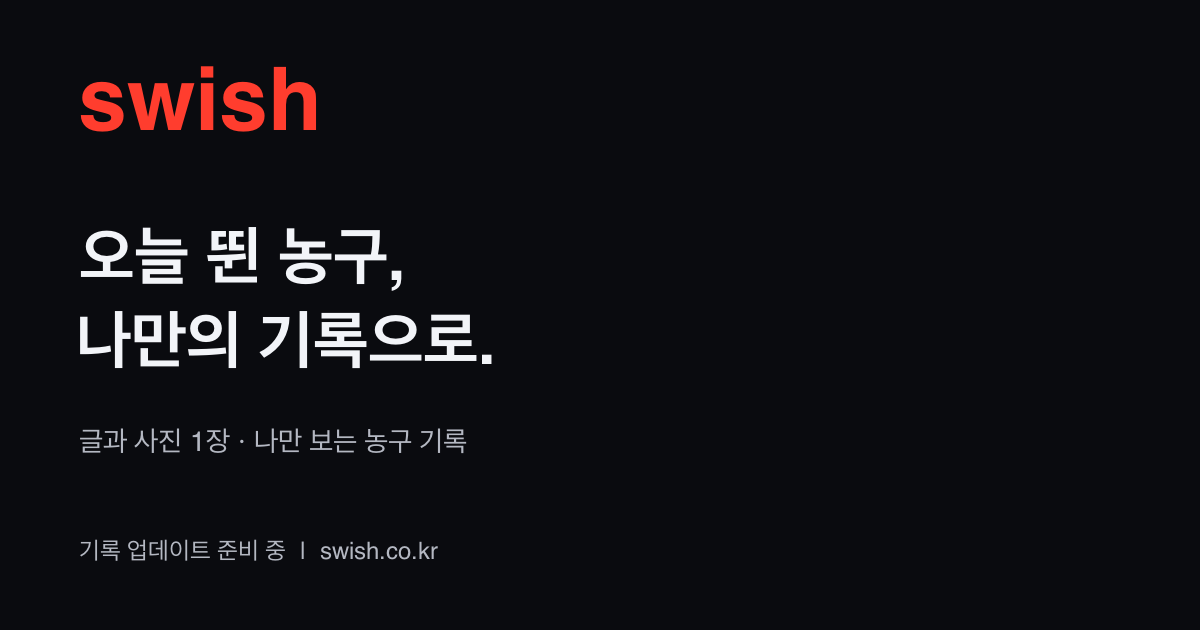
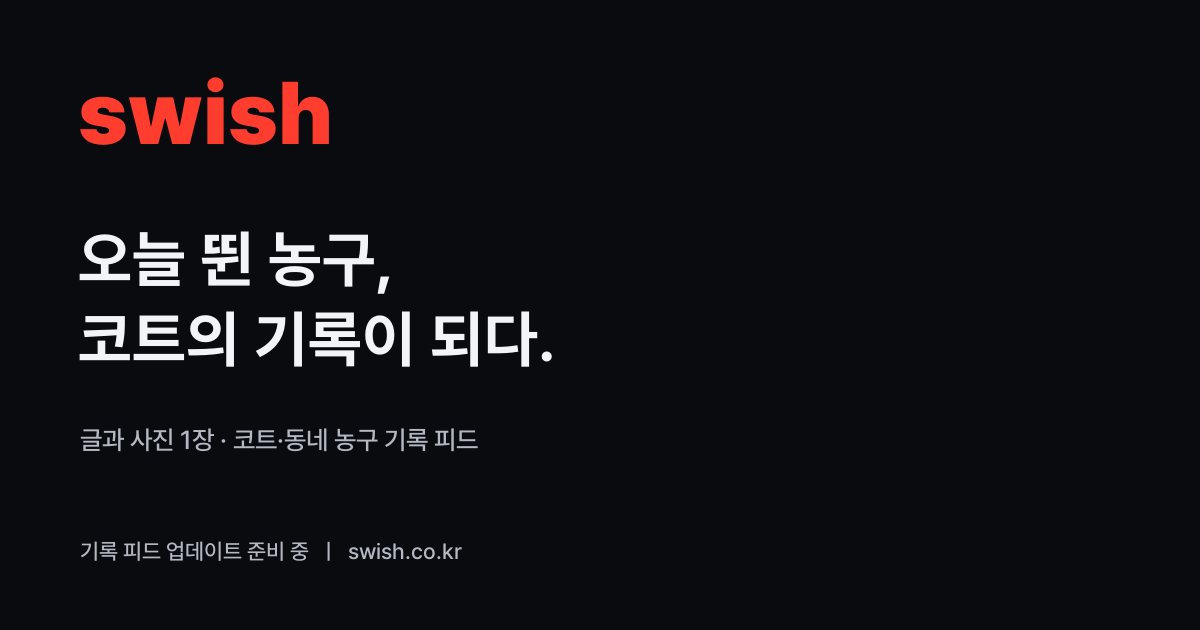
records feed: 오늘 뛴 농구, 코트의 기록이 되다 (swish #341)

diff --git a/index.html b/index.html
@@ -3,10 +3,10 @@
 <head>
 <meta charset="utf-8">
 <meta name="viewport" content="width=device-width, initial-scale=1">
-<title>swish — 나만의 농구 기록, 코트와 게임</title>
-<meta name="description" content="오늘 뛴 농구를 나만의 기록으로. 글과 사진 1장으로 남기는 개인 기록 업데이트를 준비하고 있어요. 코트맵·픽업게임·전광판을 만나는 농구 앱 swish(스위시).">
-<meta property="og:title" content="swish — 나만의 농구 기록, 코트와 게임">
-<meta property="og:description" content="글과 사진 1장으로 남기는 나만의 농구 기록, 업데이트 준비 중. 코트맵부터 픽업게임·전광판까지.">
+<title>swish — 코트에서 뛴 농구를 기록하고 나누는 앱</title>
+<meta name="description" content="오늘 뛴 농구를 글과 사진 1장으로 기록하고, 같은 코트·우리 동네 농구인들과 나누는 기록 피드 업데이트를 준비하고 있어요. 코트맵·픽업게임·전광판을 만나는 농구 앱 swish(스위시).">
+<meta property="og:title" content="swish — 오늘 뛴 농구, 코트의 기록이 되다">
+<meta property="og:description" content="글과 사진 1장으로 남기는 코트·동네 농구 기록 피드, 업데이트 준비 중. 코트맵부터 픽업게임·전광판까지.">
 <meta property="og:image" content="https://swish.co.kr/assets/records-og.png">
 <meta property="og:type" content="website">
 <meta name="theme-color" content="#0A0B0F">
@@ -298,14 +298,16 @@
   .tag.gold{color:var(--gold);background:rgba(255,178,61,.12)}
 
   /* 출시 예정 개인 기록 예시 */
-  .record-stats{display:flex;gap:8px;margin:8px 14px 12px;padding:12px 6px;background:var(--surface);border:1px solid var(--line);border-radius:14px}
-  .record-stats>div{flex:1;text-align:center}
-  .record-stats b{display:block;font-size:22px;line-height:1.2}
-  .record-stats span{font-size:9px;color:var(--dim)}
-  .record-card{background:var(--surface);border:1px solid var(--line);border-radius:14px;padding:12px;font-size:12px}
-  .record-date{font-size:10px;color:var(--dim);margin-bottom:7px}
-  .record-photo{display:block;color:var(--dim);font-size:10px;margin-top:8px}
   .record-note{padding-top:8px;font-size:9px}
+  .feed-card{background:var(--surface);border:1px solid var(--line);border-radius:14px;overflow:hidden;font-size:12px}
+  .feed-card>p{padding:8px 12px 0}
+  .fc-head{display:flex;align-items:center;gap:8px;padding:10px 12px 8px}
+  .fc-head .ava{width:22px;height:22px;border-radius:50%;background:var(--line);display:grid;place-items:center;font-size:10px;font-weight:800}
+  .fc-head b{display:block;font-size:11px}
+  .fc-head span{font-size:9px;color:var(--dim)}
+  .fc-photo{aspect-ratio:12/5;background:#2A1512;display:grid;place-items:center;color:var(--scarlet)}
+  .fc-photo svg{width:30px;height:30px}
+  .fc-like{display:block;padding:6px 12px 10px;font-size:10px;color:var(--scarlet);font-weight:800}
   #records li small{color:var(--dim)}
   .legacy-anchor{position:absolute;top:0}
   section[id]{scroll-margin-top:64px;position:relative}
@@ -497,8 +499,8 @@
   <div class="wrap hero-in">
     <div>
       <p class="kicker" data-reveal>농구 앱 swish</p>
-      <h1><span class="line">오늘 뛴 농구,</span><span class="line g">나만의 기록으로.</span></h1>
-      <p class="sub" data-reveal>슛 감각이 좋았던 날도, 가볍게 몸을 푼 날도.<br><b>글이나 사진 한 장</b>으로 돌아보는 나만의 농구 기록을 준비하고 있어요.</p>
+      <h1><span class="line">오늘 뛴 농구,</span><span class="line g">코트의 기록이 되다.</span></h1>
+      <p class="sub" data-reveal>슛 감각이 좋았던 날도, 가볍게 몸을 푼 날도.<br><b>글이나 사진 한 장</b>으로 남기고, 같은 코트·우리 동네 농구인들의 기록을 구경하는 기록 피드를 준비하고 있어요.</p>
       <div class="cta-row" data-reveal>
         <a class="btn btn-primary" href="https://apps.apple.com/kr/app/id6767571900">App Store에서 받기</a>
         <a class="btn btn-ghost" href="#records">기록 미리 보기</a>
@@ -510,20 +512,17 @@
       <div class="hero-glow" aria-hidden="true"></div>
       <div class="float">
       <!-- 출시 예정 기능의 정적 예시 -->
-      <div class="phone" role="img" aria-label="업데이트 예정인 개인 농구 기록 예시: 글, 선택 코트, 기록한 날 수와 사진 유무">
+      <div class="phone" role="img" aria-label="업데이트 예정인 농구 기록 피드 예시: 코트와 날짜, 사진, 글, 좋아요가 있는 기록 카드">
         <div class="screen"><div class="island"></div>
           <div class="app-head"><span class="mark">swish</span><span class="spacer"></span><span class="region">업데이트 예정</span></div>
           <div class="screen-title"><span class="t">농구 기록</span><span class="mini-cta">기록하기</span></div>
-          <p class="screen-sub">나만 볼 수 있는 농구 기록이에요</p>
-          <div class="record-stats"><div><b>3</b><span>기록</span></div><div><b>2</b><span>기록한 날</span></div><div><b>1</b><span>선택한 코트</span></div></div>
-          <p class="chip-label">코트</p>
-          <div class="chip-row"><span class="chip on">전체</span><span class="chip">반포한강공원</span></div>
+          <p class="screen-sub">코트와 동네에서 올라온 농구 기록이에요</p>
+          <div class="chip-row"><span class="chip on">전체</span><span class="chip">팔로잉</span><span class="chip">내 동네</span></div>
           <div class="glist">
-            <div class="record-card"><p class="record-date">9월 22일 · 반포한강공원</p><p>오늘은 자유투 리듬을 찾았어요.<br>다음에도 천천히, 같은 자세로.</p><span class="record-photo">사진 1장 · 상세에서 보기</span></div>
-            <div class="record-card"><p class="record-date">9월 22일 · 코트 선택 안 함</p><p>마무리는 가벼운 드리블 연습.</p></div>
-            <div class="record-card"><p class="record-date">9월 20일 · 반포한강공원</p><p>오랜만에 뛰어서 더 즐거웠던 날.</p></div>
+            <div class="feed-card"><div class="fc-head"><span class="ava">민</span><div><b>민준</b><span>반포한강공원 · 9월 22일</span></div></div><div class="fc-photo" aria-hidden="true"><svg><use href="#i-ball"/></svg></div><p>자유투 리듬을 찾은 날.</p><span class="fc-like">♥ 12</span></div>
+            <div class="feed-card"><div class="fc-head"><span class="ava">서</span><div><b>서연</b><span>서울 서초구 · 9월 21일</span></div></div><p>퇴근하고 3대3 두 게임, 마지막 레이업 성공.</p><span class="fc-like">♥ 5</span></div>
           </div>
-          <p class="screen-sub record-note">[DEMO] 기록 예시 · 직접 입력한 활동일</p>
+          <p class="screen-sub record-note">[DEMO] 기록 피드 예시 · 직접 남긴 기록</p>
           <div class="tabbar">
             <span class="tab"><svg><use href="#i-home"/></svg>홈</span><span class="tab on"><svg><use href="#i-record"/></svg>기록</span><span class="tab"><svg><use href="#i-ball"/></svg>게임</span><span class="tab"><svg><use href="#i-map"/></svg>코트맵</span><span class="tab"><svg><use href="#i-person"/></svg>마이</span>
           </div></div>
@@ -548,14 +547,14 @@
     <span class="ti"><b>NEW</b>유료 게임 실명 인증 — 실명은 호스트에게만 보여요</span>
     <span class="ti"><b>NEW</b>채팅 속 연락처·계좌번호는 자동으로 가려요</span>
     <span class="ti"><b>NEW</b>유료 게임 신청 전 환불 규정을 표로 확인</span>
-    <span class="ti"><b>SOON</b>나만 보는 농구 기록 — 업데이트 준비 중</span>
+    <span class="ti"><b>SOON</b>코트·동네 농구 기록 피드 — 업데이트 준비 중</span>
     <span class="ti"><b>MAP</b>전국 농구 코트 1,220곳 — 제보로 매일 자라는 코트맵</span>
     <span class="ti dup" aria-hidden="true"><b>NEW</b>호스트를 팔로우하면 새 게임 알림<span class="v">0.1.14</span></span>
     <span class="ti dup" aria-hidden="true"><b>NEW</b>호스트 프로필에서 예정 게임·팔로워·리뷰를 한눈에</span>
     <span class="ti dup" aria-hidden="true"><b>NEW</b>유료 게임 실명 인증 — 실명은 호스트에게만 보여요</span>
     <span class="ti dup" aria-hidden="true"><b>NEW</b>채팅 속 연락처·계좌번호는 자동으로 가려요</span>
     <span class="ti dup" aria-hidden="true"><b>NEW</b>유료 게임 신청 전 환불 규정을 표로 확인</span>
-    <span class="ti dup" aria-hidden="true"><b>SOON</b>나만 보는 농구 기록 — 업데이트 준비 중</span>
+    <span class="ti dup" aria-hidden="true"><b>SOON</b>코트·동네 농구 기록 피드 — 업데이트 준비 중</span>
     <span class="ti dup" aria-hidden="true"><b>MAP</b>전국 농구 코트 1,220곳 — 제보로 매일 자라는 코트맵</span>
   </div></div>
 </div>
@@ -654,16 +653,13 @@
 <div class="screen" data-screen="2"><div class="island"></div>
           <div class="app-head"><span class="mark">swish</span><span class="spacer"></span><span class="region">업데이트 예정</span></div>
           <div class="screen-title"><span class="t">농구 기록</span><span class="mini-cta">기록하기</span></div>
-          <p class="screen-sub">나만 볼 수 있는 농구 기록이에요</p>
-          <div class="record-stats"><div><b>3</b><span>기록</span></div><div><b>2</b><span>기록한 날</span></div><div><b>1</b><span>선택한 코트</span></div></div>
-          <p class="chip-label">코트</p>
-          <div class="chip-row"><span class="chip on">전체</span><span class="chip">반포한강공원</span></div>
+          <p class="screen-sub">코트와 동네에서 올라온 농구 기록이에요</p>
+          <div class="chip-row"><span class="chip on">전체</span><span class="chip">팔로잉</span><span class="chip">내 동네</span></div>
           <div class="glist">
-            <div class="record-card"><p class="record-date">9월 22일 · 반포한강공원</p><p>오늘은 자유투 리듬을 찾았어요.<br>다음에도 천천히, 같은 자세로.</p><span class="record-photo">사진 1장 · 상세에서 보기</span></div>
-            <div class="record-card"><p class="record-date">9월 22일 · 코트 선택 안 함</p><p>마무리는 가벼운 드리블 연습.</p></div>
-            <div class="record-card"><p class="record-date">9월 20일 · 반포한강공원</p><p>오랜만에 뛰어서 더 즐거웠던 날.</p></div>
+            <div class="feed-card"><div class="fc-head"><span class="ava">민</span><div><b>민준</b><span>반포한강공원 · 9월 22일</span></div></div><div class="fc-photo" aria-hidden="true"><svg><use href="#i-ball"/></svg></div><p>자유투 리듬을 찾은 날.</p><span class="fc-like">♥ 12</span></div>
+            <div class="feed-card"><div class="fc-head"><span class="ava">서</span><div><b>서연</b><span>서울 서초구 · 9월 21일</span></div></div><p>퇴근하고 3대3 두 게임, 마지막 레이업 성공.</p><span class="fc-like">♥ 5</span></div>
           </div>
-          <p class="screen-sub record-note">[DEMO] 기록 예시 · 직접 입력한 활동일</p>
+          <p class="screen-sub record-note">[DEMO] 기록 피드 예시 · 직접 남긴 기록</p>
           <div class="tabbar">
             <span class="tab"><svg><use href="#i-home"/></svg>홈</span><span class="tab on"><svg><use href="#i-record"/></svg>기록</span><span class="tab"><svg><use href="#i-ball"/></svg>게임</span><span class="tab"><svg><use href="#i-map"/></svg>코트맵</span><span class="tab"><svg><use href="#i-person"/></svg>마이</span>
           </div></div>
@@ -676,29 +672,26 @@
     <i class="ball-anchor" data-floor style="left:50%;top:66%"></i>
     <div class="copy">
       <span class="kicker" data-reveal>농구 기록 · 업데이트 예정</span>
-      <h2 data-reveal>한 줄도, 한 장도.<br>나만 보는 농구 이야기.</h2>
-      <p class="body" data-reveal>운동을 마친 뒤 기억하고 싶은 순간을 남겨 보세요. 날짜순으로 돌아보고, 직접 선택한 코트별로 내 기록을 모아볼 수 있어요.</p>
+      <h2 data-reveal>한 줄도, 한 장도.<br>코트에 남기는 농구 이야기.</h2>
+      <p class="body" data-reveal>운동을 마친 뒤 기억하고 싶은 순간을 올려 보세요. 코트를 태그하면 그 코트와 우리 동네 피드에 모이고, 팔로우한 사람들의 기록에 좋아요로 응원할 수 있어요.</p>
       <ul data-reveal>
         <li>글 최대 1,000자, 사진 최대 1장<small>글만 쓰거나 사진만 남겨도 괜찮아요.</small></li>
-        <li>코트는 이름으로 찾아 직접 선택<small>코트를 고르지 않아도, 위치 권한 없이도 기록해요.</small></li>
-        <li>기록과 사진은 나만 볼 수 있어요<small>그날의 감각과 기억을 내 공간에 차곡차곡 남겨요.</small></li>
-        <li>기록한 날을 한눈에<small>직접 남긴 활동일을 모아 내 농구 습관을 돌아봐요.</small></li>
+        <li>코트를 태그하면 코트·동네 피드에<small>코트는 이름으로 찾아 선택해요. 위치 권한 없이도 기록할 수 있어요.</small></li>
+        <li>공개 계정·비공개 계정은 내가 선택<small>비공개 계정이면 기록은 나만 봐요. 사진의 위치 정보는 지우고 올려요.</small></li>
+        <li>좋아요와 팔로잉 피드<small>함께 뛰는 사람들의 기록을 모아 보고, 내 기록한 날도 한눈에 돌아봐요.</small></li>
       </ul>
-      <p class="fine" data-reveal>화면은 출시 예정 기능의 예시예요. 같은 날 여러 번 남겨도 기록한 날은 하루로 세어요.</p>
+      <p class="fine" data-reveal>화면은 출시 예정 기능의 예시예요. 기록은 회원이 직접 남긴 것으로, 코트 방문을 인증하지 않아요.</p>
     </div>
-    <div class="fig" data-reveal><div class="phone" role="img" aria-label="출시 예정 농구 기록 목록 예시, 개인 기록 3개와 기록한 날 2일"><div class="screen"><div class="island"></div>
+    <div class="fig" data-reveal><div class="phone" role="img" aria-label="출시 예정 농구 기록 피드 예시, 코트와 동네에서 올라온 기록 2개"><div class="screen"><div class="island"></div>
           <div class="app-head"><span class="mark">swish</span><span class="spacer"></span><span class="region">업데이트 예정</span></div>
           <div class="screen-title"><span class="t">농구 기록</span><span class="mini-cta">기록하기</span></div>
-          <p class="screen-sub">나만 볼 수 있는 농구 기록이에요</p>
-          <div class="record-stats"><div><b>3</b><span>기록</span></div><div><b>2</b><span>기록한 날</span></div><div><b>1</b><span>선택한 코트</span></div></div>
-          <p class="chip-label">코트</p>
-          <div class="chip-row"><span class="chip on">전체</span><span class="chip">반포한강공원</span></div>
+          <p class="screen-sub">코트와 동네에서 올라온 농구 기록이에요</p>
+          <div class="chip-row"><span class="chip on">전체</span><span class="chip">팔로잉</span><span class="chip">내 동네</span></div>
           <div class="glist">
-            <div class="record-card"><p class="record-date">9월 22일 · 반포한강공원</p><p>오늘은 자유투 리듬을 찾았어요.<br>다음에도 천천히, 같은 자세로.</p><span class="record-photo">사진 1장 · 상세에서 보기</span></div>
-            <div class="record-card"><p class="record-date">9월 22일 · 코트 선택 안 함</p><p>마무리는 가벼운 드리블 연습.</p></div>
-            <div class="record-card"><p class="record-date">9월 20일 · 반포한강공원</p><p>오랜만에 뛰어서 더 즐거웠던 날.</p></div>
+            <div class="feed-card"><div class="fc-head"><span class="ava">민</span><div><b>민준</b><span>반포한강공원 · 9월 22일</span></div></div><div class="fc-photo" aria-hidden="true"><svg><use href="#i-ball"/></svg></div><p>자유투 리듬을 찾은 날.</p><span class="fc-like">♥ 12</span></div>
+            <div class="feed-card"><div class="fc-head"><span class="ava">서</span><div><b>서연</b><span>서울 서초구 · 9월 21일</span></div></div><p>퇴근하고 3대3 두 게임, 마지막 레이업 성공.</p><span class="fc-like">♥ 5</span></div>
           </div>
-          <p class="screen-sub record-note">[DEMO] 기록 예시 · 직접 입력한 활동일</p>
+          <p class="screen-sub record-note">[DEMO] 기록 피드 예시 · 직접 남긴 기록</p>
           <div class="tabbar">
             <span class="tab"><svg><use href="#i-home"/></svg>홈</span><span class="tab on"><svg><use href="#i-record"/></svg>기록</span><span class="tab"><svg><use href="#i-ball"/></svg>게임</span><span class="tab"><svg><use href="#i-map"/></svg>코트맵</span><span class="tab"><svg><use href="#i-person"/></svg>마이</span>
           </div></div></div></div>
@@ -971,7 +964,7 @@
     <div class="foot-grid">
       <div data-reveal>
         <p class="foot-mark">swish</p>
-        <p>코트를 찾고, 함께 뛰고, 나만의 기록을 준비하는 농구 앱.</p>
+        <p>코트를 찾고, 함께 뛰고, 뛴 농구를 기록하고 나누는 농구 앱.</p>
         <p class="legal" style="margin-top:10px">
           <a href="https://www.notion.so/SWISH-36970c5866eb812297abc686d0bed893">이용약관</a>
           <a href="https://www.notion.so/SWISH-36970c5866eb8121876cfbeaad08c6f4">개인정보처리방침</a>
@@ -1044,7 +1037,7 @@
     const show = (i) => {
       if (stick.dataset.active === String(i)) return;
       stick.dataset.active = String(i);
-      const cards = $$(".gcard, .record-card", screens[i]);
+      const cards = $$(".gcard, .feed-card", screens[i]);
       if (cards.length && !reduce) animate(cards, { opacity: [0, 1], y: [12, 0] }, { delay: stagger(0.07, { startDelay: 0.2 }), duration: 0.5, ease: EASE });
     };
     const pick = () => {
